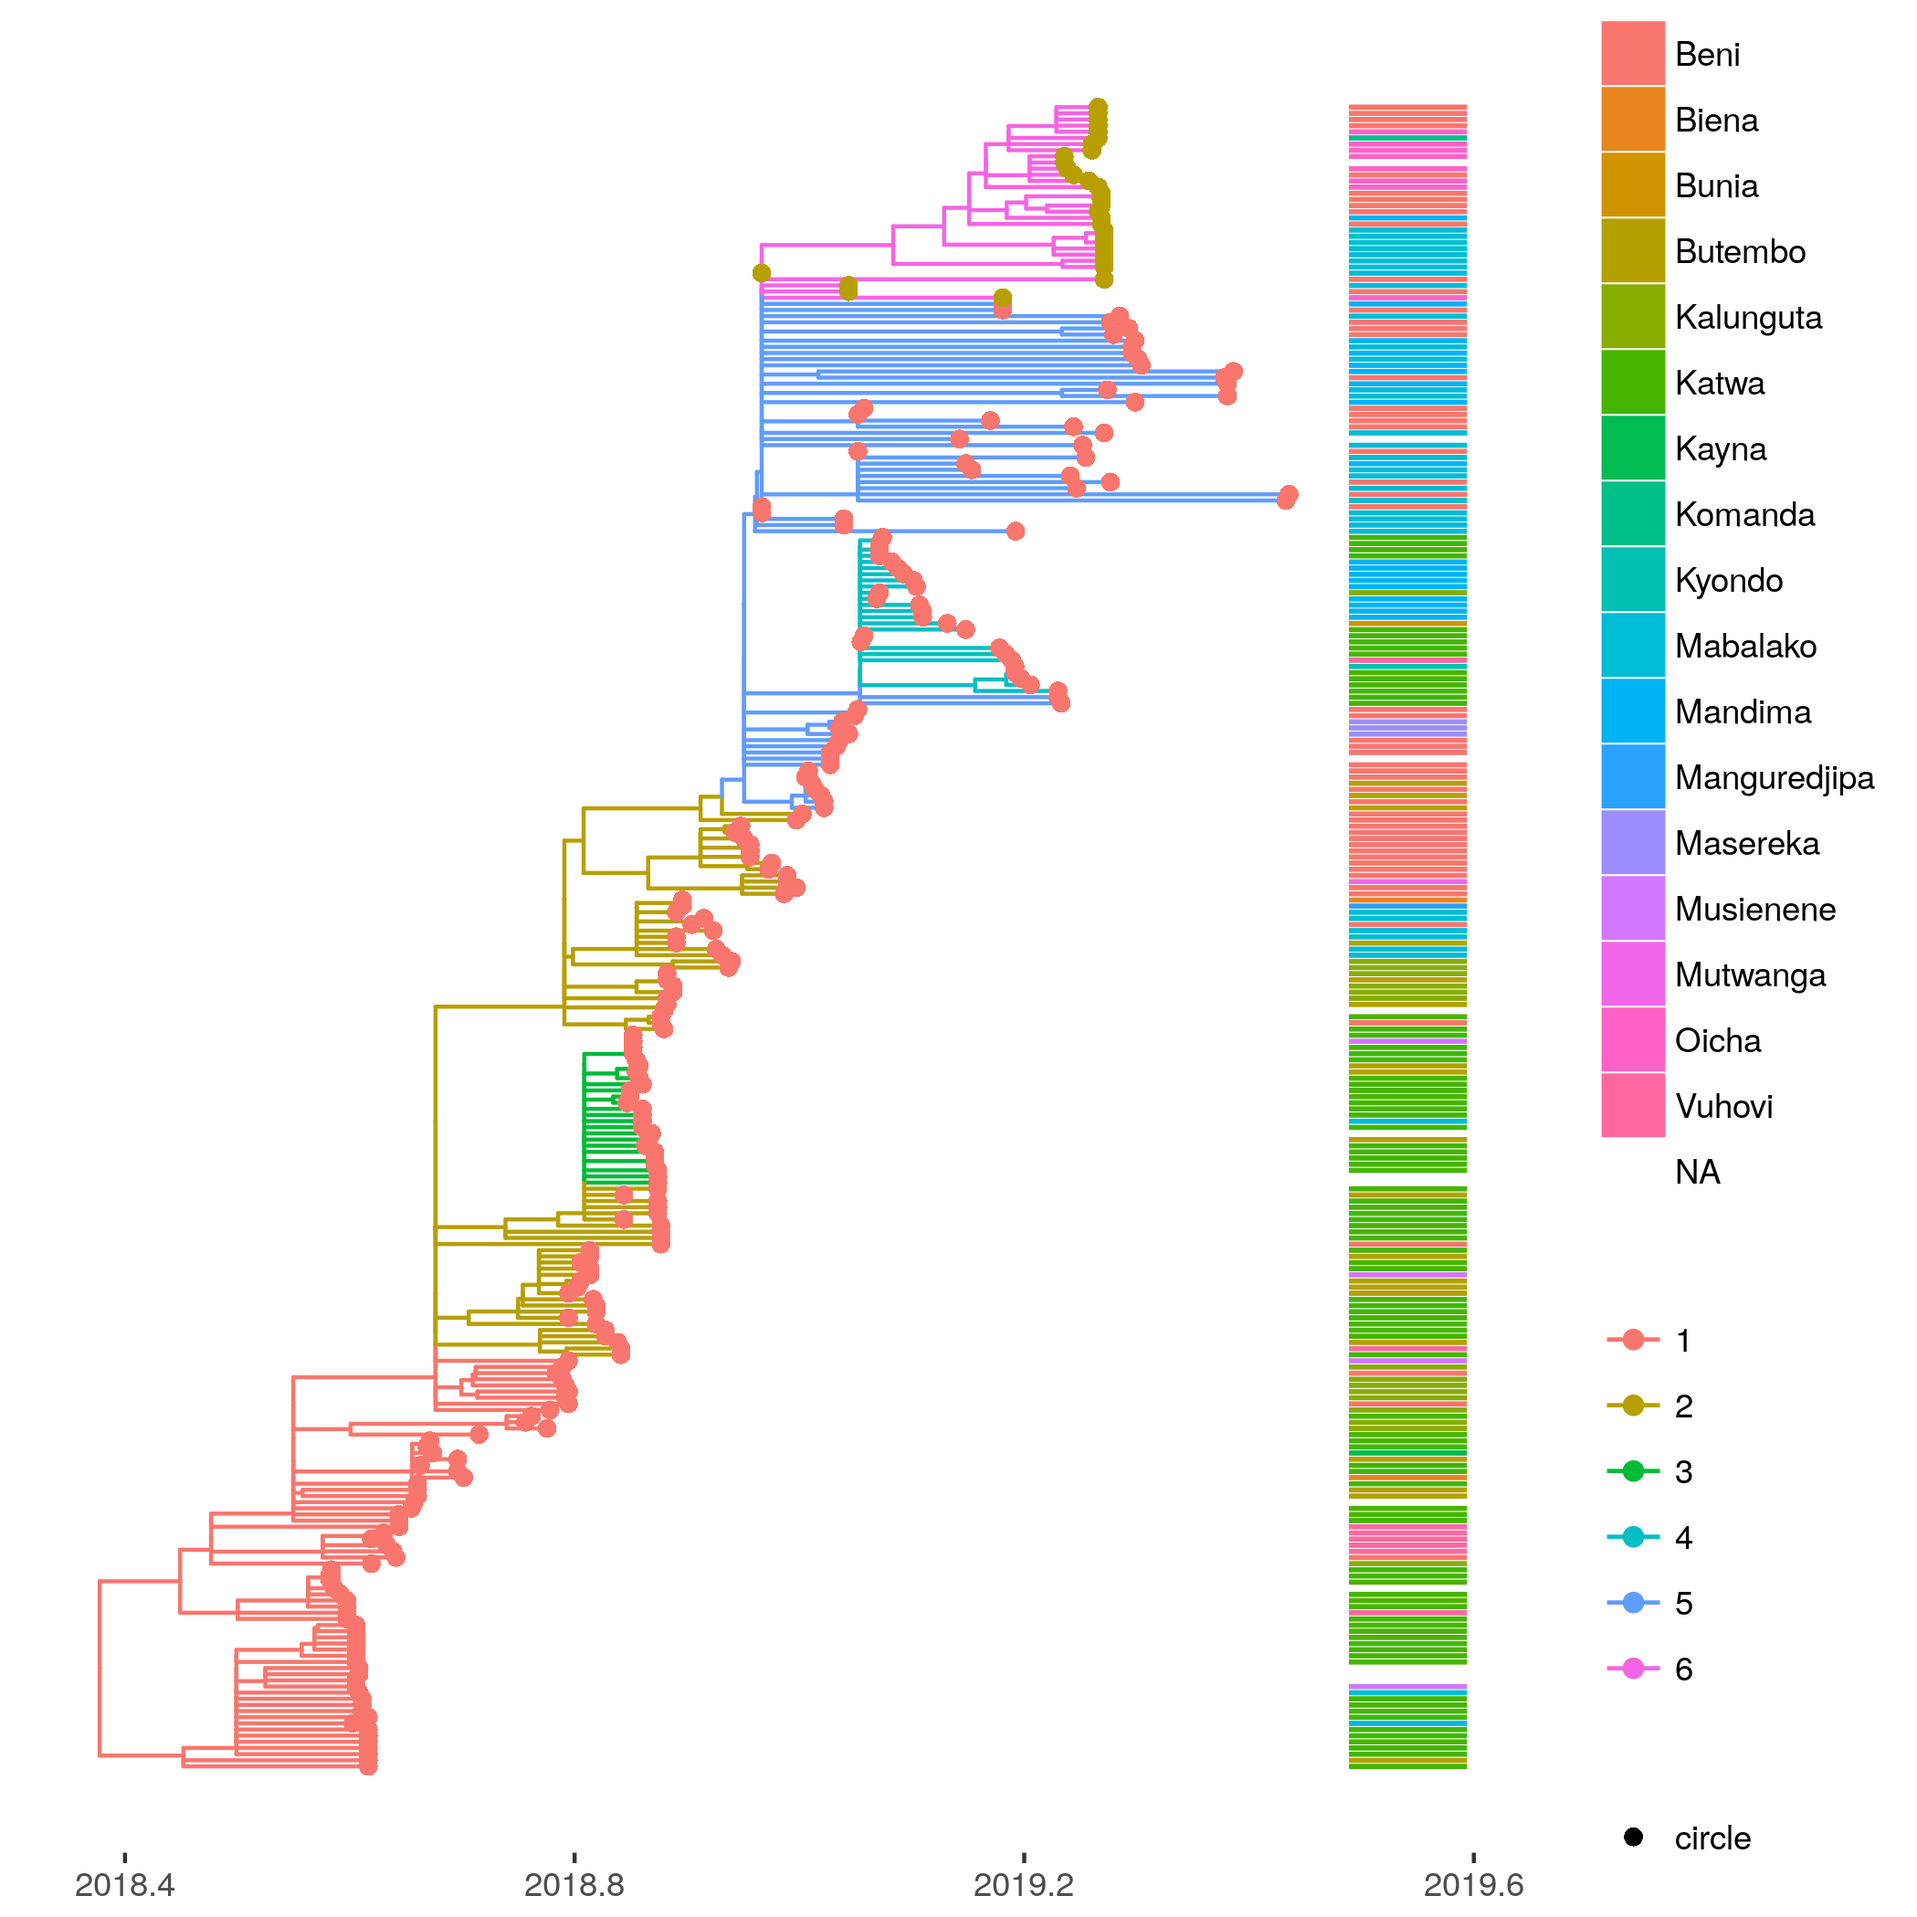
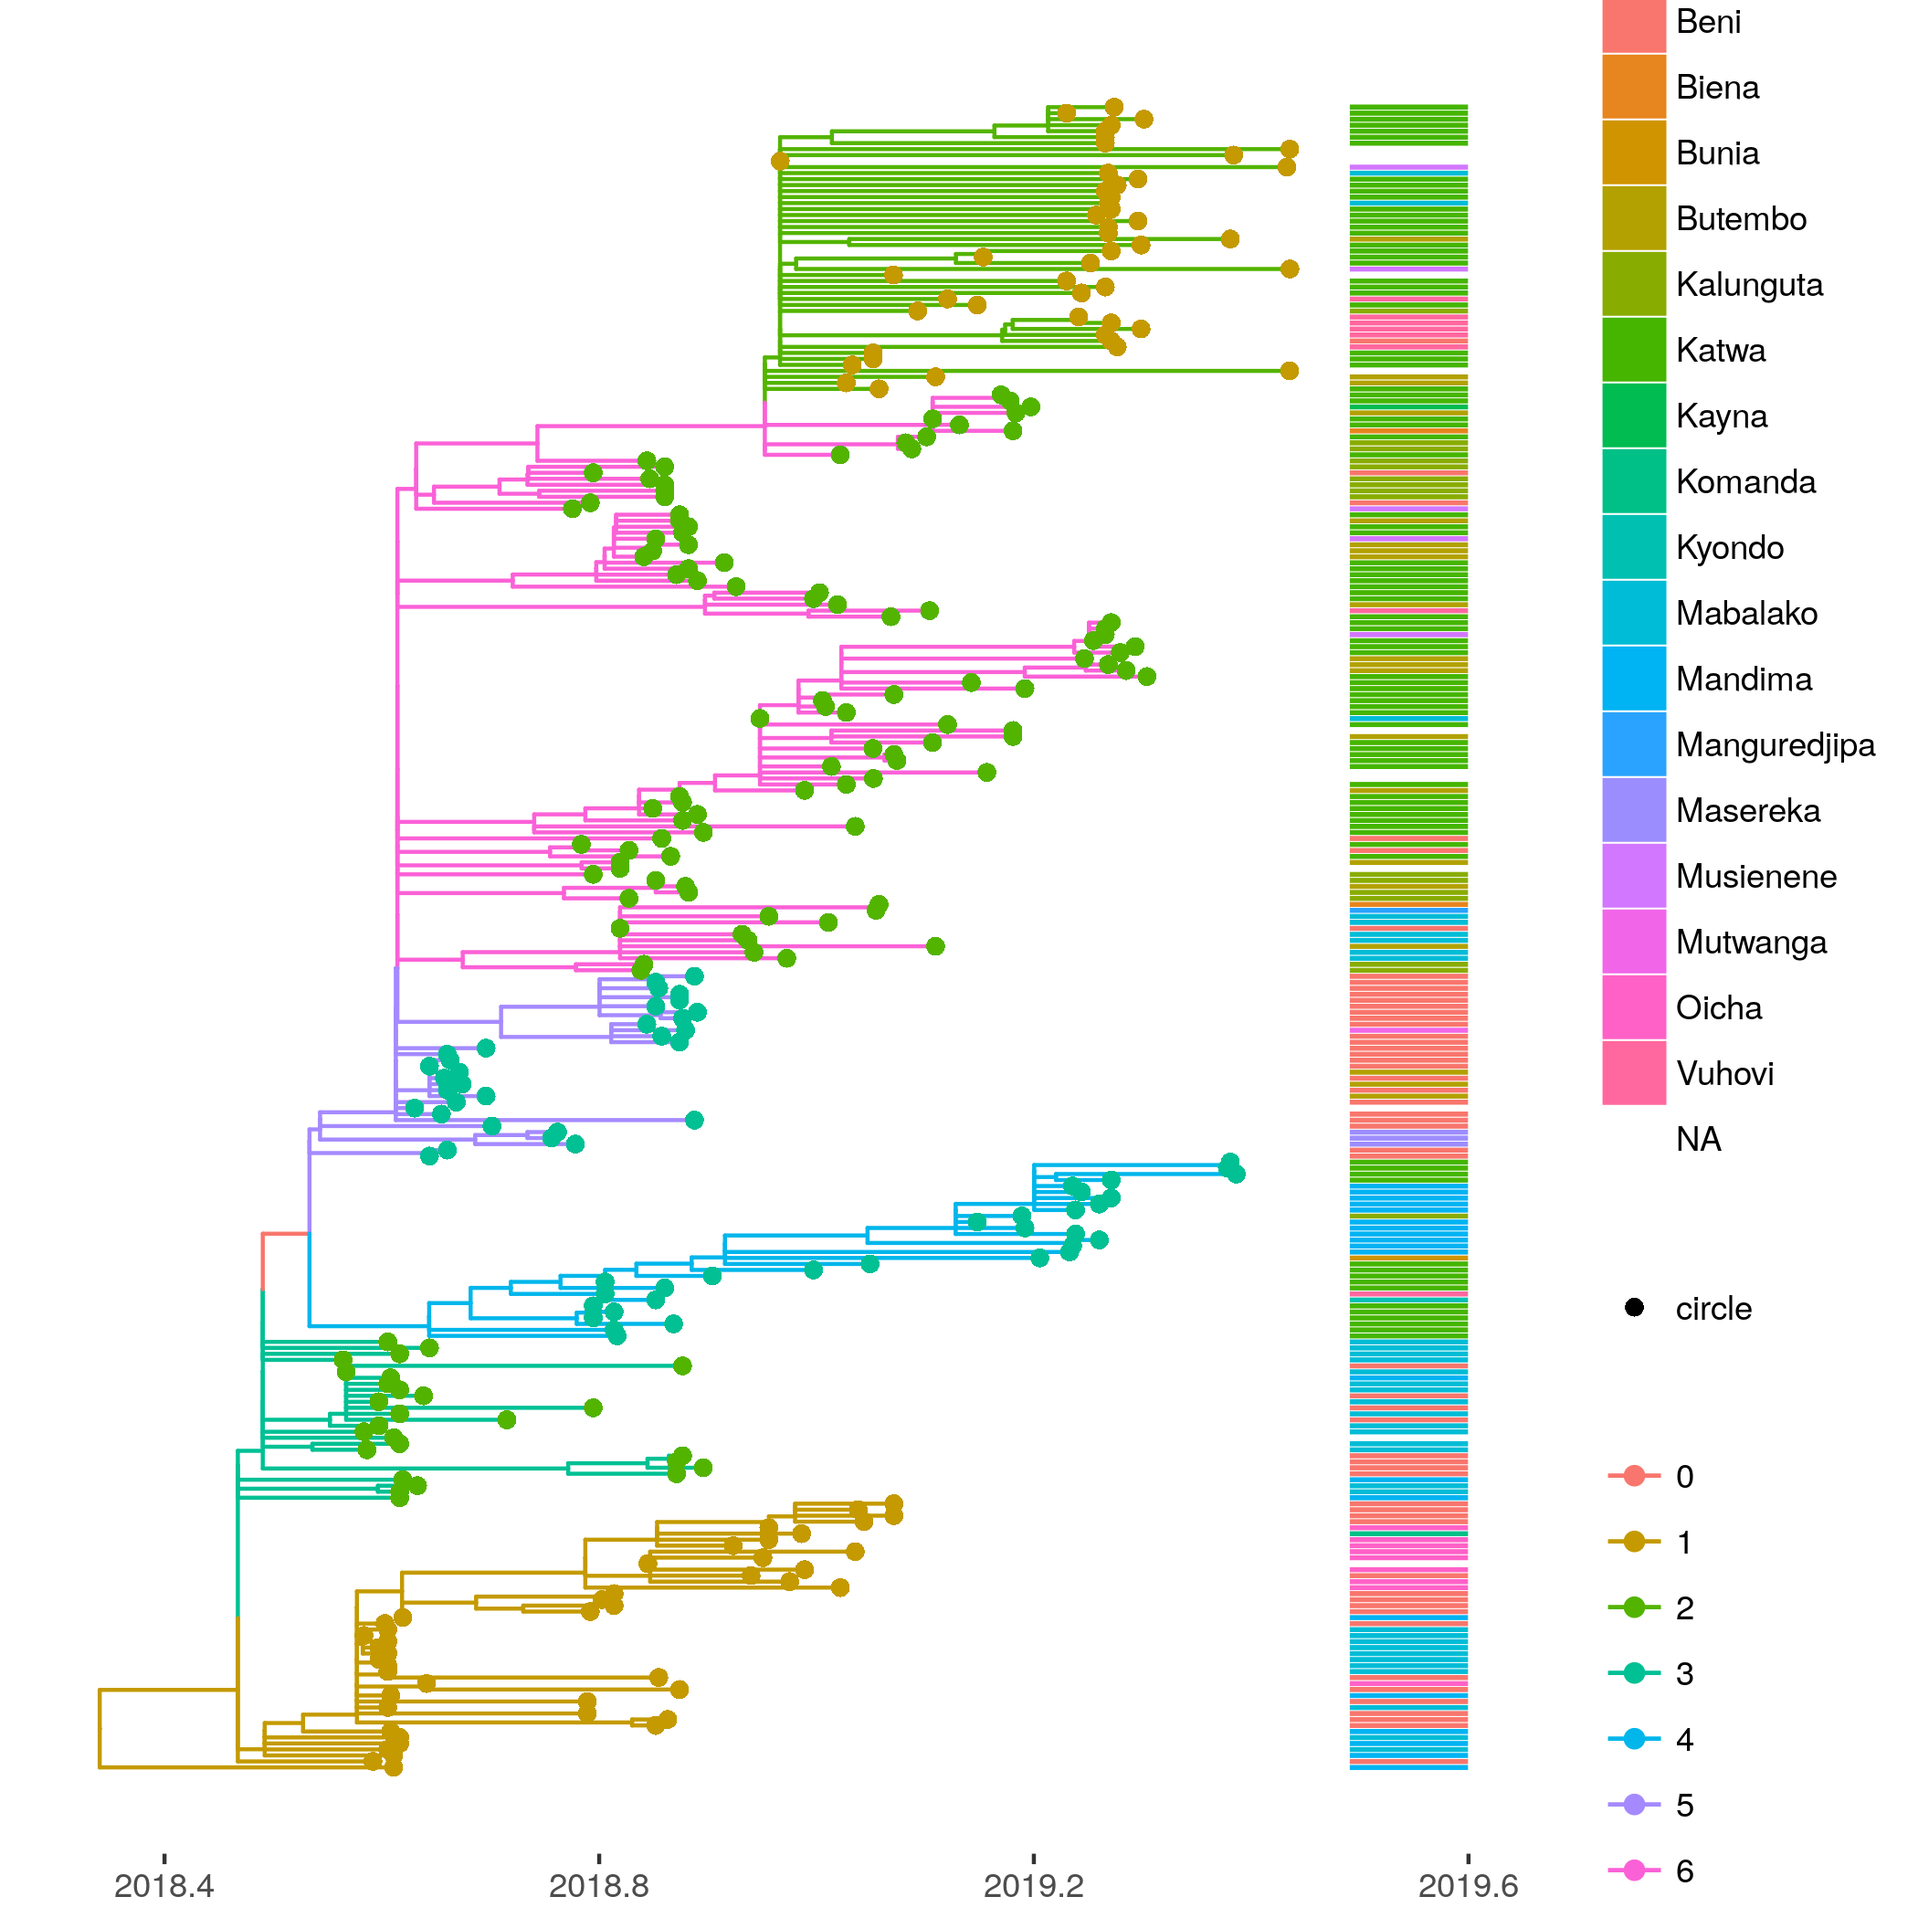
fixing error with coding of sample times

diff --git a/README.md b/README.md
@@ -100,12 +100,11 @@ Load sample times. Note that many samples lack meta data and we will have to est
 ```r
 library( lubridate ) # for date conversions 
 md$Date <- as.Date( md$date )
-
-sts <- decimal_date( md$Date ) # sample times vector 
-names(sts) <- tre$tip.label
+md$sts <- decimal_date( md$Date ) # numeric sample time 
+sts <- setNames( md[ tre$tip.label, ]$sts, tre$tip.label ) # sample time vector
 # provide bounds for the sample times that will be estimated 
 st_to_estimate <- names(sts)[which(is.na(sts))]
-n  <- length( st_to_estimate)
+n  <- length( st_to_estimate )
 est = data.frame( row.names = st_to_estimate
  , lower = rep(2018.5, n)
  , upper = rep(max( na.omit( sts ) ), n ))
@@ -114,7 +113,7 @@ est = data.frame( row.names = st_to_estimate
 We can put bounds on the molecular clock rate based on previous studies. 
 
 ```r
-mrl <- c( .0005, .002 ) # the estimated clock rate should fall between these values 
+#mrl <- c( .0005, .002 ) # the estimated clock rate should fall between these values 
 ```
 
 Here we run treedater with a strict molecular clock. I have found that the relaxed clock gives similar dates but has unusually high rate variation indicating poor fit. Strict clock estimates tend to be a bit more stable (fewer bad outliers), so a safer choice in this case.
@@ -122,6 +121,14 @@ Here we run treedater with a strict molecular clock. I have found that the relax
 ```r
 # run treedater with strict clock 
 s.dtr0 <- dater( tre, sts, s = 18e3 , estimateSampleTimes = est , quiet = FALSE, ncpu = 6, strict=TRUE, meanRateLimits = mrl)
+```
+
+```
+## NOTE: initial guess of sample times for following lineages was not provided:
+## KAT5915 KAT5497 KAT5596 KAT5483 BTB18344 BTB4376 BEN3224 BEN3232
+## Will proceed with midpoint of provided range as initial guess of these sample times.
+## Note: Minimum temporal branch length  (*minblen*) set to 0.000312269848284008. Increase *minblen* in the event of convergence failures. 
+## Tree is not rooted. Searching for best root position. Increase searchRoot to try harder.
 ```
 
 
@@ -133,15 +140,10 @@ s.ol0 <- outlierTips( s.dtr0 )
 ```
 
 ```
-##           taxon            q            p     loglik       rates
-## BEN234   BEN234 2.636702e-06 9.450546e-09 -12.280394 0.000542902
-## KAT5563 KAT5563 7.208789e-04 5.167591e-06 -10.690683 0.000542902
-## KAT2677 KAT2677 2.391908e-03 2.571944e-05  -7.027787 0.000542902
-## MAN1891 MAN1891 3.569232e-03 5.117179e-05  -8.756785 0.000542902
-## BTB8497 BTB8497 1.253373e-02 2.246189e-04  -7.095221 0.000542902
-## MAN2015 MAN2015 1.757221e-02 3.778971e-04  -5.268355 0.000542902
-## BEN5944 BEN5944 2.992584e-02 8.137772e-04  -6.081991 0.000542902
-## MAN039   MAN039 2.992584e-02 8.580886e-04  -4.739188 0.000542902
+##         taxon           q            p    loglik        rates
+## BEN018 BEN018 0.002536767 9.092354e-06 -5.806051 0.0005369978
+##        branch.length
+## BEN018             0
 ```
 
 ```r
@@ -157,7 +159,10 @@ s.dtr1 <- dater( unroot(s.tre1), sts, s = 18e3 , estimateSampleTimes=est, quiet 
 
 ```
 ## NOTE: initial guess of sample times for following lineages was not provided:
-## BEN163 BEN2064 BEN018 BEN379 BEN114 18FHV089 MAN035 BEN148
+## KAT5915 KAT5497 KAT5596 KAT5483 BTB18344 BTB4376 BEN3224 BEN3232
+## Will proceed with midpoint of provided range as initial guess of these sample times.
+## Note: Minimum temporal branch length  (*minblen*) set to 0.000313393121119562. Increase *minblen* in the event of convergence failures. 
+## Tree is not rooted. Searching for best root position. Increase searchRoot to try harder.
 ```
 
 ```r
@@ -166,21 +171,21 @@ s.dtr1
 
 ```
 ## 
-## Phylogenetic tree with 271 tips and 270 internal nodes.
+## Phylogenetic tree with 278 tips and 277 internal nodes.
 ## 
 ## Tip labels:
-## 	BTB6375, KAT2689, KAT2291, KAT5915, KAT2012, KAT2573, ...
+## 	BEN234, KAT5563, BTB6375, KAT2689, KAT2291, KAT5915, ...
 ## 
 ## Rooted; includes branch lengths.
 ## 
 ##  Time of common ancestor 
-## 2018.38018787688 
+## 2018.34309139759 
 ## 
 ##  Time to common ancestor (before most recent sample) 
-## 1.05816828750358 
+## 1.09526476679162 
 ## 
 ##  Mean substitution rate 
-## 0.000718847050625473 
+## 0.00053618041769699 
 ## 
 ##  Strict or relaxed clock 
 ## strict 
@@ -193,40 +198,67 @@ Here is the relaxed clock version which I won't use subseuqently:
 
 ```r
 dtr0 <- dater( tre, sts, s = 18e3 , estimateSampleTimes = est , quiet = FALSE, ncpu = 6, strict=FALSE, meanRateLimits = mrl )
+```
+
+```
+## NOTE: initial guess of sample times for following lineages was not provided:
+## KAT5915 KAT5497 KAT5596 KAT5483 BTB18344 BTB4376 BEN3224 BEN3232
+## Will proceed with midpoint of provided range as initial guess of these sample times.
+## Note: Minimum temporal branch length  (*minblen*) set to 0.000312269848284008. Increase *minblen* in the event of convergence failures. 
+## Tree is not rooted. Searching for best root position. Increase searchRoot to try harder.
+```
+
+```r
 ol0 <- outlierTips( dtr0 )
 ```
 
-
 ```
-##           taxon           q            p    loglik       rates
-## BEN234   BEN234 0.002058063 1.475314e-05 -8.275665 0.011373242
-## MAN039   MAN039 0.002058063 1.475314e-05 -8.275665 0.007643149
-## KAT2677 KAT2677 0.013942113 1.499152e-04 -6.758768 0.007232593
+## [1] taxon         q             p             loglik        rates        
+## [6] branch.length
+## <0 rows> (or 0-length row.names)
 ```
 
 ```r
 tre1 <- drop.tip( tre, as.character( ol0$taxon )[ ol0$q < .05] )
 dtr1 <- dater( unroot(tre1), sts, s = 18e3 , estimateSampleTimes = est , quiet = FALSE, ncpu = 6, strict=FALSE, meanRateLimits = mrl )
+```
+
+```
+## NOTE: initial guess of sample times for following lineages was not provided:
+## KAT5915 KAT5497 KAT5596 KAT5483 BTB18344 BTB4376 BEN3224 BEN3232
+## Will proceed with midpoint of provided range as initial guess of these sample times.
+## Note: Minimum temporal branch length  (*minblen*) set to 0.000312269848284008. Increase *minblen* in the event of convergence failures. 
+## Tree is not rooted. Searching for best root position. Increase searchRoot to try harder.
+```
+
+```r
 dtr1
 ```
 
 ```
- Time of common ancestor 
-2017.99881233053 
-
- Time to common ancestor (before most recent sample) 
-1.43954383385449 
-
- Mean substitution rate 
-0.000188066133171088 
-
- Strict or relaxed clock 
-relaxed 
-
- Coefficient of variation of rates 
-1.20575845190787 
+## 
+## Phylogenetic tree with 279 tips and 278 internal nodes.
+## 
+## Tip labels:
+## 	BEN234, KAT5563, BTB6375, KAT2689, KAT2291, KAT5915, ...
+## 
+## Rooted; includes branch lengths.
+## 
+##  Time of common ancestor 
+## 2018.24312712901 
+## 
+##  Time to common ancestor (before most recent sample) 
+## 1.19522903537677 
+## 
+##  Mean substitution rate 
+## 0.000180664144823635 
+## 
+##  Strict or relaxed clock 
+## relaxed 
+## 
+##  Coefficient of variation of rates 
+## 0.890730292516331
 ```
-
 
 ### Quick plot 
 
@@ -237,6 +269,20 @@ plot( s.dtr1, show.tip=F ) ; axisPhylo( root.time=s.dtr1$timeOfMRCA , backward=F
 
 ![plot of chunk unnamed-chunk-11](figure/unnamed-chunk-11-1.png)
 
+Root-to-tip plot. Black points represent internal node dates identified with `treedater`
+
+```r
+rootToTipRegressionPlot( s.dtr1 )
+```
+
+![plot of chunk unnamed-chunk-12](figure/unnamed-chunk-12-1.png)
+
+```
+## Root-to-tip mean rate: 0.00159015756075696 
+## Root-to-tip p value: 3.52810669810118e-85 
+## Root-to-tip R squared (variance explained): 0.750462962182243 
+## Returning fitted linear model.
+```
 
 ### Parametric bootstrap 
 
@@ -253,8 +299,8 @@ pb1
 
 ```
 ##                            pseudo ML        2.5 %       97.5 %
-## Time of common ancestor 2.018380e+03 2.018195e+03 2.018475e+03
-## Mean substitution rate  7.188471e-04 5.798613e-04 8.911461e-04
+## Time of common ancestor 2.018343e+03 2.017984e+03 2.018490e+03
+## Mean substitution rate  5.361804e-04 3.800671e-04 7.564175e-04
 ## 
 ##  For more detailed output, $trees provides a list of each fit to each simulation
 ```
@@ -266,9 +312,10 @@ date_decimal( c(s.dtr1$timeOf,  pb1$timeOf ) )
 ```
 
 ```
-##                                                2.5%                     97.5% 
-## "2018-05-19 18:26:44 UTC" "2018-03-13 03:39:53 UTC"  "2018-06-23 05:14:40 UTC"
-
+##                                                2.5% 
+## "2018-05-06 05:28:50 UTC" "2017-12-25 23:49:20 UTC" 
+##                     97.5% 
+## "2018-06-28 19:59:59 UTC"
 ```
 
 
@@ -286,24 +333,39 @@ library( treestructure )
 phylo.s.dtr1 <- s.dtr1
 class( phylo.s.dtr1 ) <- 'phylo' 
 # note this is a ladder-like tree, so will require some time-overlap between partitions
-( ts0 <- trestruct(phylo.s.dtr1, minOverlap = 20, nsim = 1e4 ) )
+( ts0 <- trestruct(phylo.s.dtr1, minOverlap = 10, nsim = 1e4, level = .05, ncpu = 8 ) )
 ```
 
 ```
-## Finding splits under nodes: 272 
-## Finding splits under nodes: 272 292 
-## Finding splits under nodes: 282 292 
-## Finding splits under nodes: 282 292 385 449 
-## Finding splits under nodes: 282 494
+## Finding splits under nodes: 279 
+## Finding splits under nodes: 279 282 
+## Finding splits under nodes: 279 282 306 495 
+## Finding splits under nodes: 282 283 
+## Finding splits under nodes: 283 294
 ```
 
 ```
 ## Call: 
-## trestruct(tre = phylo.s.dtr1, minOverlap = 20, nsim = 10000)
+## trestruct(tre = phylo.s.dtr1, minOverlap = 10, nsim = 10000, 
+##     level = 0.05, ncpu = 8)
 ## 
 ## Number of clusters: 6 
-## Number of partitions: 2 
-## Significance level: 0.01 
+## Number of partitions: 3 
+## Significance level: 0.05 
+## Cluster and partition assignment: 
+##      taxon cluster partition
+## 1   BEN234       3         2
+## 2  KAT5563       2         1
+## 3  BTB6375       2         1
+## 4  KAT2689       2         1
+## 5  KAT2291       2         1
+## 6  KAT5915       2         1
+## 7  KAT2012       2         1
+## 8  KAT2573       2         1
+## 9  KAT2188       2         1
+## 10 BTB5671       2         1
+## ...
+## For complete data, use `as.data.frame(...)`
 ```
 
 ## plots 
@@ -318,9 +380,28 @@ md[ missing_loc, ] <- NA
 md$health_zone <- as.character( md$health_zone )
 md$health_zone [ md$health_zone == '?' ] <- NA 
 p2 <- gheatmap(p, md['health_zone'], offset=.0, width=0.1, colnames=FALSE)
-ggsave( p2, file = 'ebov16july2019_treedater_treestructure.png' )
+#ggsave( p2, file = 'ebov16july2019_treedater_treestructure.png' )
+p2
 ```
 
-![](ebov16july2019_treedater_treestructure.png) 
+![plot of chunk unnamed-chunk-16](figure/unnamed-chunk-16-1.png)
 
+This plot shows 3 'health zone clusters': 
+
+```r
+hz1 <- c( 'Beni', 'Mandima', 'Oicha', 'Mabalako', 'Mutwanga', 'Komanda',
+'Nyakunde', 'Tchomia', 'Rwampara', 'Bunia', 'Aliwara', 'Mambasa')
+hz2 <- c( 'Butembo', 'Katwa', 'Kalunguta', 'Goma')
+hz3 <- c( 'Masereka', 'Lubero', 'Musienene', 'Kayna', 'Kyondo', 'Biena','Manguredjipa', 'Alimbongo', 'Vuhovi')
+md$hz <- NA 
+md$hz[ md$health_zone %in% hz1 ] <- 'HZ1' 
+md$hz[ md$health_zone %in% hz2 ] <- 'HZ2' 
+md$hz[ md$health_zone %in% hz3 ] <- 'HZ3' 
+
+p3 <- gheatmap(p, md['hz'], offset=.0, width=0.1, colnames=FALSE)
+#ggsave( p3, file = 'ebov16july2019_treedater_treestructure_healthzones.png' )
+p3
+```
+
+![plot of chunk unnamed-chunk-17](figure/unnamed-chunk-17-1.png)
 
